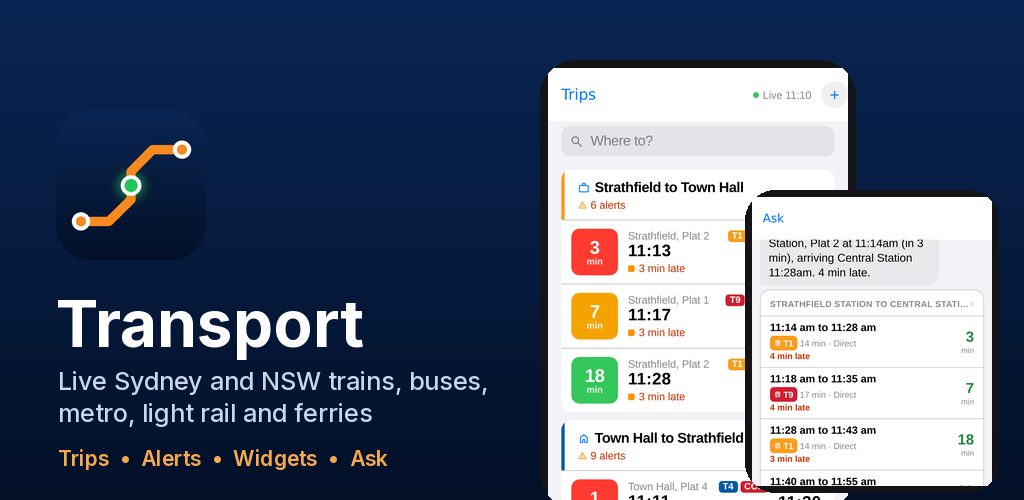
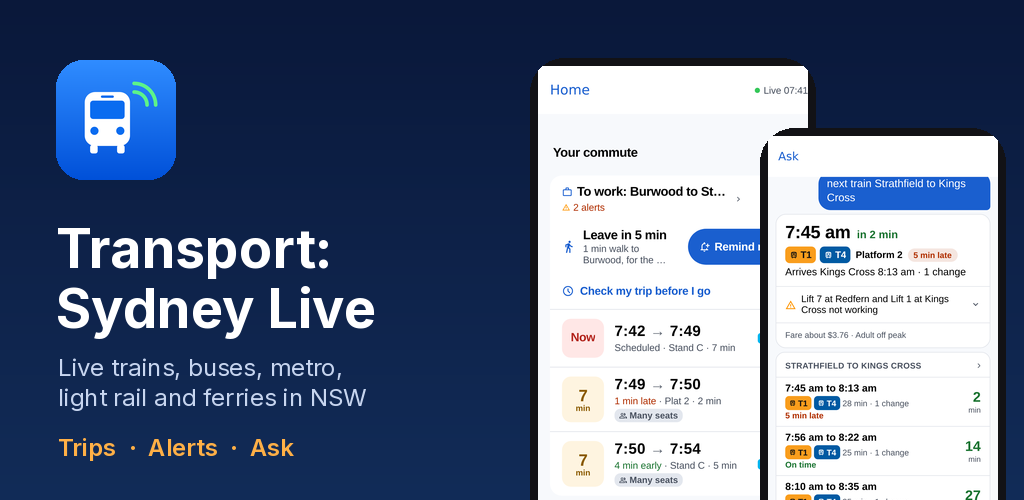
Store readiness: App Store Connect set for version 1.0.0 with build 201 (listing rewritten for the Expo app, review notes, 6.9 and 6.5 inch screenshots uploaded, not submitted). app.json for the next native builds: unused Always location, motion and full accuracy purpose strings removed, a fuller Wh

diff --git a/store/apple/listing.md b/store/apple/listing.md
@@ -1,73 +1,83 @@
 # App Store listing (App Store Connect)
 
+Set in App Store Connect through the API on 25 Oct 2026 (app 6826543653, version 1.0.0 with build 201). This file is the source; if you change a text here, change it there too.
+
 ## App information
 
 * Name (30 max): Transport: Sydney Live
-  * If the name is taken: Transport Live: Sydney NSW
 * Subtitle (30 max): Trains, buses, metro, ferries
 * Bundle ID: com.maisysen.nswtransport
 * SKU: nswtransport-ios-1
 * Primary language: English (Australia)
 * Primary category: Navigation
 * Secondary category: Travel
-* Content rights: Uses third party content (Transport for NSW open data, CC BY 4.0). Answer "Yes, it contains third party content and I have the rights to use it."
-* Age rating: 4+ (see age-rating.md)
+* Content rights: Uses third party content (Transport for NSW Open Data, CC BY 4.0), with the rights to use it.
+* Age rating: 4+ (every item None or No, see age-rating.md)
 * Price: Free. No in-app purchases. No ads.
-* Availability: Australia (all other countries can stay off; the data only covers NSW)
-* Copyright: 2026 (your legal name or business name, the seller name on the developer account)
+* Availability: Australia only
+* Copyright: 2026 Fintex Australia Pty Ltd
+* Export compliance: standard HTTPS only. ios.config.usesNonExemptEncryption is false in app.json, so builds carry ITSAppUsesNonExemptEncryption false and App Store Connect asks nothing.
 
 ## URLs
 
 * Support URL: https://transportsydney.app/support/
-* Marketing URL: https://transportsydney.app/support/
+* Marketing URL: https://transportsydney.app/
 * Privacy policy URL: https://transportsydney.app/privacy/
 
 ## Promotional text (170 max)
 
-Live times that count down every second, widgets for your Home Screen and Lock Screen, and a trip watch that tells you when to leave. Ask it anything in plain words.
+Live times for trains, metro, buses, light rail and ferries. Your trips first, step free options, widgets and a check before you leave. Ask in plain words.
 
 ## Description (4000 max)
 
-Live Sydney and NSW public transport, made for iPhone. Trains, metro, buses, light rail and ferries, with the time each service really leaves.
+Live Sydney and NSW public transport for iPhone. Trains, metro, buses, light rail and ferries, with live times for when each service leaves.
 
 LIVE DEPARTURES
-Every board refreshes itself and the minutes count down on their own. Each service is marked Live or Scheduled, with its platform or stand, how late it is and how full it is when the data says so.
+Boards refresh on their own and the minutes count down. Each service shows Live or Scheduled, its platform or stand, how late it is, and how full it is when the data says so.
 
-TRIPS FIRST
-Add home and add work once. In the morning Transport shows Home to Work first, in the evening the reverse. Each trip shows its next three services with leave and arrive times, changes, and earlier and later services.
+YOUR TRIPS FIRST
+Add home and work once. In the morning Home to Work comes first, in the evening the reverse. Each trip shows its next services with leave and arrive times, changes, an Opal fare estimate, and earlier and later services.
 
-SEE WHERE IT IS
-Tap a service to follow it on the map, with every stop, the next stop and how many stops away it is.
+STEP FREE AND LIFTS
+Plan step free trips and see lift outages on your way before you leave.
 
-WATCH A TRIP
-Swipe on any service or tap Watch trip. Transport tells you when to leave, when it runs late, when the platform changes, and when a late leg means you will miss your connection, with the next way to get there.
+CHECK MY TRIP BEFORE I GO
+Set your usual leave time and days. Before your trip you get one alert, only if something is wrong: a delay, a cancellation, trackwork, a platform change or a lift out of service.
 
-WIDGETS AND LOCK SCREEN
-Small, medium and large Home Screen widgets, a stop board widget, Lock Screen widgets and StandBy. Pick any saved trip or stop for each widget. Follow a service in the Dynamic Island and on the Lock Screen with a Live Activity.
+FOLLOW YOUR TRIP
+Tap Start trip to follow it on a live map with the next stop, stops left and your arrival time, also on the Lock Screen and in the Dynamic Island. Get an alert before your stop and at each change. Share trip sends a link others can open; it stops working when the trip ends.
+
+WATCH A SERVICE
+Swipe left on a departure to watch it. Transport alerts you when it is time to leave, if it runs late or if the platform changes.
+
+WIDGETS
+Home Screen and Lock Screen widgets for a stop or trip you choose.
 
 ASK
 Type a question like "next train Burwood to Central", "is the T1 late" or "last train home" and get a short answer with live times you can tap.
 
-SIRI
-Say "Next train home in Transport" or "Ask Transport" and hear the answer without opening the app.
+MORE
+Live free spaces at Park and Ride car parks and Opal machines near you.
 
 NO ACCOUNT
-No sign up, no ads, no tracking. Saved trips belong to a random ID made on your phone.
+No sign up, no ads, no tracking. Saved trips belong to a random ID made on your phone, and Delete all data in More removes them.
 
-Contains transport information from Transport for NSW Open Data, licensed under CC BY 4.0. Transport is an independent app. It is not made, endorsed or supported by Transport for NSW.
+Contains transport information from Transport for NSW Open Data, licensed under CC BY 4.0. Map data from OpenStreetMap contributors. Transport: Sydney Live is an independent app by Fintex Australia Pty Ltd. It is not made or endorsed by Transport for NSW.
 
 ## Keywords (100 max, commas, no spaces)
 
 train,bus,ferry,metro,light rail,timetable,departures,trip planner,nsw,commute,widget,platform,delay
 
-## What's New (version 1.0)
+## What's New
 
-First release.
+Not shown for the first version.
 
 ## Screenshots
 
-* iPhone 6.9 inch (1320 x 2868): screenshots/apple-6.9/
-* iPhone 6.5 inch (1242 x 2688): screenshots/apple-6.5/
-* iPad: not needed. The app is iPhone only (TARGETED_DEVICE_FAMILY 1).
+Made from the Expo app's web export with live data, light mode (store/screenshots/README.md says how):
 
-Upload order: 01 Trips, 02 trip, 03 board, 04 live map, 05 Ask, 06 nearby.
+* iPhone 6.9 inch (1320 x 2868): screenshots/apple-6.9/, uploaded
+* iPhone 6.5 inch (1284 x 2778): screenshots/apple-6.5/, uploaded
+* iPad: not needed (supportsTablet false)
+
+Order: 01 Home with the commute card, 02 Central departures, 03 a trip, 04 Ask, 05 Check my trip before I go.

diff --git a/docs/STORE_PRIVACY.md b/docs/STORE_PRIVACY.md
@@ -1,0 +1,76 @@
+# Store privacy answers (App Store App Privacy and Play Data safety)
+
+Written 25 Oct 2026 from the code on main (app/ Expo app for iPhone and Android, backend/ server at api.transportsydney.app and the first address). Re-check whenever the app or server starts keeping something new.
+
+## What the code does
+
+Kept only on the phone (never sent): home and work stations, starred and recent stops, the fare type, Ask chat history, settings.
+
+Sent to the server and kept, keyed by a random install ID and a random profile ID that the app makes on first launch (not the advertising ID, not the vendor ID, no name, email or phone number):
+
+| Data | Server table | How long | Why |
+| --- | --- | --- | --- |
+| Saved trips (name, stops, legs) | saved, saved_legs | Until the user deletes them | Trips on Home and in widgets |
+| Commutes and dismissed suggestions | commutes, dismissed | Until deleted | Commute card |
+| Trip searches (from, to, day, time of day) | searches | 90 days | Commute suggestions |
+| Watched services and trips | watches, watch_sent | 30 days after they end | Leave now, late and platform alerts |
+| Alerts sent to the phone | notes | 3 days | Alert history in the app |
+| Check my trip before I go settings | morning_checks, morning_sent | Until deleted | The morning check |
+| Last way home reminder | last_home | 12 hours after the service | The reminder push |
+| Car parks and stations chosen for alerts | park_watches, lift_alerts | Until deleted | Nearly full and lift alerts |
+| Push token (iPhone, Expo push) | expo_tokens | Until the app unregisters or Apple says it is invalid | Sending alerts |
+| Shared trip, with the latest position only if the user taps Include my location | shares | Deleted when the trip ends or sharing stops, otherwise 30 min after arrival, never longer than 6 hours | The Share trip link |
+
+Sent for one request and not kept: the position for nearby stops, Opal machines, Park and Ride distances and trip from where you are; Ask questions.
+
+Kept for 5 minutes only: request counters per IP address for rate limiting (ip_rate), deleted by the minute cron.
+
+Not in the app: accounts or login, name, email, phone number, contacts, photos, microphone, camera, health, payments, ads, analytics or crash SDKs, advertising ID, tracking across apps or sites. No ad or analytics library is in app/package.json.
+
+Delete all my data (More) asks the server to delete everything above for this install (POST /api/history/delete with scope all) and resets the phone. By email: privacy@transportsydney.app (forwards to contact@fintex.au). Web: https://transportsydney.app/support/
+
+Service providers that see a request: Apple (APNs, MapKit maps on iPhone), Expo (push relay and over the air updates; sees the push token, the alert text and the IP address), OpenFreeMap (map tiles on Android; sees the IP address), Cloudflare (hosting). Transport for NSW receives only the server's own data requests, with no user data.
+
+## Apple App Privacy (App Store Connect > App > App Privacy)
+
+The App Store Connect API has no endpoint for App Privacy, so this is clicked by hand (about 5 minutes):
+
+1. App Privacy > Get Started. "Do you or your third party partners collect data from this app?" Yes.
+2. Tick these data types and nothing else:
+   * Location > Precise Location
+   * Identifiers > Device ID
+   * Search History > Search History
+   * User Content > Other User Content
+3. For each of the four: Used for App Functionality only. Linked to the user's identity: No (there are no accounts; the IDs are random and made on the phone). Used for tracking: No.
+4. Publish.
+
+Why each: Precise Location only when the user chooses Include my location on Share trip (kept while the share is live, so it counts as collected). Device ID is the random install and profile IDs plus the push token. Search History is the trip searches kept 90 days. Other User Content is saved trips, commutes, watches and checks.
+
+Not collected under Apple's definition: the position sent for nearby stops and trip planning (used to answer the request and not kept), Ask questions, Usage Data, Diagnostics, Contact Info.
+
+Tracking: No. ATT is not needed (no IDFA, no tracking SDK). NSPrivacyTracking is false.
+
+The privacy manifest in app/app.json now lists the same four types (not linked, no tracking, App Functionality). Build 201 shipped with an empty list; the next iPhone build carries the new one.
+
+## Google Play Data safety (Play Console > App content > Data safety)
+
+* Does your app collect or share any of the required user data types? Yes.
+* Is all of the user data collected by your app encrypted in transit? Yes.
+* Do you provide a way for users to request that their data is deleted? Yes (Delete all my data in More; privacy@transportsydney.app; https://transportsydney.app/support/).
+* Account creation: the app does not have accounts.
+* Data shared with third parties: None. Share trip is a user initiated transfer. Expo, Google and Cloudflare act as service providers.
+
+| Data type | Collected | Processed ephemerally | Required or optional | Purpose |
+| --- | --- | --- | --- | --- |
+| Location: Approximate location | Yes | Yes | Optional | App functionality |
+| Location: Precise location | Yes | No (only with Include my location on Share trip, at most 6 hours) | Optional | App functionality |
+| App activity: In-app search history | Yes | No (90 days) | Required | App functionality |
+| App activity: Other user-generated content | Yes | No | Optional | App functionality |
+| App activity: Other actions | Yes (watched services, checks, chosen car parks and stations) | No | Optional | App functionality |
+| Device or other IDs | Yes (random install and profile IDs; push token once Android push ships) | No | Required | App functionality |
+
+Not collected: personal info, financial info, health and fitness, messages, photos and videos, audio, files and docs, calendar, contacts, web browsing, app info and performance, advertising ID.
+
+Security: encrypted in transit Yes; deletion request Yes; Families policy No; independent security review No.
+
+The older answer files store/apple/app-privacy.md and store/google/data-safety.md point here.

diff --git a/docs/STORE_READINESS.md b/docs/STORE_READINESS.md
@@ -1,0 +1,59 @@
+# Store readiness: App Store and Google Play
+
+State on 25 Oct 2026, 8 AM Sydney. Legend: DONE, BIDUR (needs Bidur's own login, identity or decision), BUILD (needs a new native build; an over the air update cannot do it).
+
+Listing texts: store/apple/listing.md, store/google/listing.md. Privacy answers: docs/STORE_PRIVACY.md. Screenshots: store/screenshots/.
+
+## App Store (app 6826543653, com.maisysen.nswtransport, team Bidur Khatri, individual)
+
+| Item | State | Note |
+| --- | --- | --- |
+| Version record 1.0.0 | DONE | Was 1.0; set to 1.0.0 to match the build |
+| Build attached | DONE | Build 201 (Expo, 1.0.0). It replaced build 107, an old Swift build |
+| Name, subtitle | DONE | Transport: Sydney Live; Trains, buses, metro, ferries |
+| Description, keywords, promotional text | DONE | Rewritten for the Expo app: no Siri claim (the Expo build has no Siri shortcuts) |
+| Support, marketing, privacy policy URLs | DONE | transportsydney.app /support/, /, /privacy/ |
+| Copyright | DONE | 2026 Fintex Australia Pty Ltd |
+| Category | DONE | Navigation, secondary Travel |
+| Age rating | DONE | Every item None or No, 4+ |
+| Content rights | DONE | Uses third party content (TfNSW Open Data, CC BY 4.0) |
+| Price and availability | DONE | Free, Australia only |
+| Export compliance | DONE | usesNonExemptEncryption false in app.json; build 201 reports false, so nothing to answer |
+| App Review contact and notes | DONE | Bidur Khatri, contact@fintex.au, [redacted-phone] (his number on file; change it in App Review Information if another number should get Apple's calls). Notes rewritten for the Expo build |
+| Screenshots 6.9 inch and 6.5 inch | DONE | 5 each, uploaded |
+| App Privacy | BIDUR | No API for it. 5 minutes of clicks, steps in docs/STORE_PRIVACY.md |
+| Test build 201 on a real iPhone | BIDUR | TestFlight: Home, Plan, Ask, Start trip (Live Activity), a widget, a watched service alert |
+| App Group group.com.maisysen.nswtransport | BUILD | Registered and ticked on both App IDs on 25 Oct (commit 9f739d0): eas.json production now builds with IOS_APP_GROUP=1 and buildNumber 202, so widgets see saved trips and starred stops from build 202 |
+| Unused location and motion purpose strings | BUILD | Build 201 carries Expo's default "Allow Transport to access your location" (Always), "...detect your current motion activity" and a full accuracy string. The app never asks for these, but vague strings can draw a guideline 5.1.1 question. app.json now removes them and gives the When In Use string a full reason. Next iPhone build |
+| Privacy manifest data types | BUILD | Build 201 lists none; app.json now lists Device ID, Search History, Other User Content, Precise Location to match App Privacy. Next iPhone build |
+| Submit for Review | BIDUR | Not submitted. Recommended order: App Privacy, then iPhone build 202 from a main that has commit "Store readiness" (purpose strings, manifest, App Group), Tab attaches 202 in place of 201, then Submit |
+
+## Google Play (com.maisysen.nswtransport)
+
+Android Publisher API, 25 Oct 2026 8 AM, edits.insert as tab-publisher@fintex-play.iam.gserviceaccount.com: HTTP 404 "Package not found: com.maisysen.nswtransport." The app does not exist in Play Console yet, or the service account has no access to it.
+
+| Item | State | Note |
+| --- | --- | --- |
+| Signed App Bundle | DONE | versionCode 5, signed with the upload key, kept on the build box (docs/RELEASES.md) |
+| Listing text | DONE | store/google/listing.md (title, short and full description, category Maps and Navigation, contact support@transportsydney.app, privacy URL) |
+| Phone screenshots | DONE | 5 at 1080 x 2160, Android look |
+| Feature graphic 1024 x 500, icon 512 | DONE | store/screenshots/play/ |
+| Data safety answers | DONE (text) | docs/STORE_PRIVACY.md; entered in Console once the app exists |
+| Content rating answers | DONE (text) | store/google/content-rating.md |
+| Create the app in Play Console | BIDUR | All apps > Create app: Transport: Sydney Live, English (Australia), App, Free, accept the declarations |
+| Give the service account access | BIDUR | Users and permissions > Invite new users > tab-publisher@fintex-play.iam.gserviceaccount.com, app Transport: Sydney Live, with Release and Store presence permissions. After that Tab fills the listing, graphics, tracks and uploads by API |
+| First upload | BIDUR | Upload the versionCode 5 AAB once in Console (Testing > Internal testing), which also turns on Play App Signing. Tab sends the file |
+| Closed test, 12 testers for 14 days | BIDUR | Only if the developer account is a personal account made after Nov 2023. An organisation account (Fintex) does not need it |
+| App content forms | BIDUR (Tab can fill once access is given) | Privacy policy URL, ads No, app access (no login), target audience 18+, government app No, news No, data safety, content rating (IARC questionnaire) |
+| Play App Signing SHA256 in assetlinks.json | BIDUR then Tab | Read from Console after the first upload; Tab adds it to site/.well-known/assetlinks.json |
+| Push alerts with the app closed | BUILD | Needs Firebase (NEEDS_BIDUR.md) and versionCode 6 |
+| Exact alarms, App Links intent filter | BUILD | versionCode 6 |
+
+## Compliance checked in code (25 Oct 2026)
+
+* No em or en dashes in app/src, app.json, the widget target, site/, store/ or docs/.
+* Permissions: iPhone asks only for location when in use and notifications; Android declares coarse and fine location, notifications and vibrate, and blocks background location, foreground service, microphone, storage and overlay.
+* No login, so account deletion is not required; More > Delete all my data deletes everything the server keeps for the install (scope all) and resets the phone.
+* No ad, analytics, crash or attribution SDK in app/package.json. No tracking, NSPrivacyTracking false, so App Tracking Transparency is not needed.
+* TfNSW attribution: More > About says "Data from Transport for NSW (CC BY 4.0) and OpenStreetMap contributors. Not made or endorsed by Transport for NSW."
+* Every screen works without an account.

diff --git a/store/apple/review-notes.md b/store/apple/review-notes.md
@@ -1,23 +1,20 @@
-# Notes for App Review (App Store Connect, App Review Information)
+# App Review notes (App Store Connect > version > App Review Information)
 
-Sign in required: No. There are no accounts. Leave the demo account fields empty.
+Set through the API on 25 Oct 2026 for build 201 (Expo). Contact: Bidur Khatri, contact@fintex.au, [redacted-phone]. Sign in required: No.
 
-Contact: (your name, phone and email for App Review)
-
-Notes (paste as written):
-
-Transport shows live Sydney and New South Wales public transport times from Transport for NSW open data (CC BY 4.0). No login is needed and every screen works from any location.
+Transport: Sydney Live shows live Sydney and New South Wales public transport times from Transport for NSW open data (CC BY 4.0). There are no accounts and no sign in, so no demo account is needed. Every screen works from any location.
 
 How to test:
-1. Home tab: tap Add home, search Strathfield and pick Strathfield Station. Tap Add work, search Town Hall and pick Town Hall Station. Home now shows the next services with live countdowns. Tap the trip to see earlier and later services.
-2. Plan tab: type Central and open Central Station for a live departure board. Tap any departure to follow the vehicle on the map. Swipe left on a departure and tap Watch to get alerts for it (allow notifications when asked). Tap Plan a trip, pick Burwood and Strathfield, open a trip and tap Start trip for the live trip with a Lock Screen countdown. It ends when you arrive.
-3. More tab, Ask: tap a suggested question, or type "next train Burwood to Central" or "is the T1 late".
-4. Siri: after opening the app once, say "Next train home in Transport" or "Ask Transport". Home must be set (step 1) for the first phrase.
-5. Widgets: long press the Home Screen, tap Edit, Add Widget, Transport. Lock Screen widgets and StandBy are also available.
-6. Live Activity: on a stop board, touch and hold a departure and tap Follow on Lock Screen.
+1. First launch: type Strathfield as the home station and pick it, then Town Hall as the work station. Home shows the commute card with the next services and live countdowns. Tap a service to see its stops.
+2. Plan tab: search Central and open Central Station for a live departure board. Swipe left on a departure to watch it (allow notifications when asked); Watching in More lists it. Plan a trip between two stations; Step free plans a trip that avoids stairs and shows lift outages.
+3. Ask tab: type "next train Burwood to Central" or "is the T1 late". Ask answers from live timetable data with fixed rules. It does not connect people and does not use generative AI.
+4. Start trip: open a trip and tap Start trip. The live screen shows a map, the next stop, stops left and the arrival time, and the same trip appears as a Live Activity on the Lock Screen. Share trip makes a link that people you send it to can open to follow the trip. The link stops working when the trip ends.
+5. Check my trip before I go: More > Check my trip before I go. Set a leave time and days; Check now shows what the alert would say.
+6. Widgets: long press the Home Screen, tap Edit, Add Widget, Transport, then Edit Widget to pick a stop or trip.
+7. More > Delete all my data removes everything the server keeps for this install and resets the app.
 
-Location is optional and asked only when you tap Show stops near me. If the review device is outside NSW, nearby stops will be far away; search works anywhere.
+Location is optional and is asked for only when you tap Show stops near me, Use my location in Ask, or the location button on a live trip. For nearby stops and trip planning the position is sent for that one request and is not stored. If you choose Include my location when sharing a trip, the server keeps the latest position only while the shared trip is live (at most 6 hours). Location is never used in the background.
 
 Live times depend on the Transport for NSW feeds. Late at night (about 1am to 4am Sydney time) many lines have no services, so boards can be short.
 
-Transport is an independent app. It is not made or endorsed by Transport for NSW.
+Published by Fintex Australia Pty Ltd. Transport: Sydney Live is an independent app, not made or endorsed by Transport for NSW.

diff --git a/store/apple/app-privacy.md b/store/apple/app-privacy.md
@@ -1,25 +1,3 @@
-# App Privacy answers (App Store Connect, App Privacy)
+# App Privacy answers (App Store Connect)
 
-Privacy policy URL: https://transportsydney.app/privacy/
-
-Do you or your third party partners collect data from this app? Yes.
-
-Tracking: No. The app does not track users across apps or websites owned by other companies, has no ads, no analytics SDK and no third party SDKs that collect data. NSPrivacyTracking is false in the privacy manifest.
-
-Data types collected (all: used for App Functionality only, NOT linked to the user's identity, NOT used for tracking):
-
-| Category | Data type | Why |
-| --- | --- | --- |
-| Identifiers | Device ID | A random install ID made by the app (not the advertising ID, not the vendor ID). The server uses it to keep the trips you watch and the alerts that belong to this phone. |
-| Search History | Search History | Trips you plan or watch are kept with the random profile ID so Transport can suggest a commute (same trip on two days at a similar time). Deleted after 90 days. |
-| User Content | Other User Content | Names and stops of the trips you save and your commutes, so they appear on Trips and in widgets. |
-
-Not collected:
-
-* Location: when you tap Show stops near me, plan from where you are, or ask Siri for the next train home, the phone sends its position for that one request. The server uses it to answer and does not store it. Under Apple's definition (not retained beyond servicing the request in real time) this is not collected. Home and work places, starred stops and recent stops stay on the phone.
-* Contact info, health, financial info, contacts, browsing history, purchases, usage data, diagnostics, sensitive info: none.
-* Ask questions are sent to the server to answer and are not stored.
-
-Notifications on iPhone are local notifications made by the app. No push token is sent.
-
-This matches the privacy manifest in the app (ios-native/Support/Privacy/App/PrivacyInfo.xcprivacy): DeviceID, SearchHistory, OtherUserContent, all not linked, no tracking, purpose App Functionality; required reason API UserDefaults with reasons CA92.1 and 1C8F.1.
+Moved to [docs/STORE_PRIVACY.md](../../docs/STORE_PRIVACY.md), rewritten on 25 Oct 2026 for the Expo app (build 201 and later). The answers that were here described the old Swift build and no longer match: the Expo app sends a push token and can share a live position on Share trip.

diff --git a/store/screenshots/README.md b/store/screenshots/README.md
@@ -1,8 +1,21 @@
-# Screenshots
+# Store screenshots
 
-* apple-6.9: 1320 x 2868, iPhone 16 Pro Max simulator, light and dark (upload one set; light is the default order 01 to 06)
-* apple-6.5: 1242 x 2688, iPhone 11 Pro Max simulator, light
-* play: 1080 x 1920 phone screenshots rendered from the app's React Native code in a phone sized browser, the 1024 x 500 feature graphic and the 512 x 512 icon
+Made on 25 Oct 2026 from the Expo app (main at 7bc7ac3) with live data, light mode, by test/e2e/store-shots.mjs on the web export. The web export draws the same screens as the phones; there is no status bar and the bottom tab bar is not drawn on the web.
 
-All iPhone captures come from CI run 16 (UI test StoreShots) with live Transport for NSW data on 24 October 2026, Sydney time about 11:30am.
-The simulator status bar shows UTC; set a status bar time override in the workflow if a matching clock is wanted.
+| Folder | Size | Look | Store |
+| --- | --- | --- | --- |
+| apple-6.9 | 1320 x 2868 | iPhone | App Store, iPhone 6.9 inch (uploaded) |
+| apple-6.5 | 1284 x 2778 | iPhone | App Store, iPhone 6.5 inch (uploaded) |
+| play | 1080 x 2160 | Android | Google Play phone screenshots, plus feature-graphic.png (1024 x 500) and icon-512.png |
+
+Screens: 01 Home with the commute card (home Burwood, work Strathfield), 02 Central departures, 03 Central to Parramatta trip, 04 Ask "next train Strathfield to Kings Cross", 05 Check my trip before I go. On the iPhone shots of screen 05 the web only note about notifications is hidden, because an iPhone with notifications on does not show it; the Android shot keeps its note, which is true for versionCode 5.
+
+To make them again:
+
+    cd app
+    npx expo export --platform web --output-dir /tmp/web-ios
+    EXPO_PUBLIC_LOOK=android npx expo export --platform web --output-dir /tmp/web-android
+    (serve each as a single page app, unknown paths return index.html)
+    STEPS='["home","board","trip","ask","morning"]' node test/e2e/store-shots.mjs PORT OUTDIR 440 956 3 light ios       # 6.9 inch
+    STEPS='["home","board","trip","ask","morning"]' node test/e2e/store-shots.mjs PORT OUTDIR 428 926 3 light ios       # 6.5 inch
+    STEPS='["home","board","trip","ask","morning"]' node test/e2e/store-shots.mjs PORT OUTDIR 360 720 3 light android   # Play

diff --git a/CHANGELOG.md b/CHANGELOG.md
@@ -4,6 +4,11 @@ What changed in Transport, newest first. Times are Sydney time. Build numbers, u
 
 ## 25 Oct 2026
 
+### Store readiness (no app update, 25 Oct, 8 AM)
+* App Store Connect: version 1.0.0 with build 201 attached, listing rewritten for the Expo app, review notes, 6.9 and 6.5 inch screenshots uploaded. Not submitted.
+* app.json, for the next native builds: the unused Always location, motion and full accuracy purpose strings are removed, the When In Use string gives the full reason, and the privacy manifest lists the data the server keeps.
+* New: docs/STORE_READINESS.md (App Store and Play checklists), docs/STORE_PRIVACY.md (App Privacy and Data safety answers from the code), fresh screenshots and Play feature graphic from the Expo app.
+
 ### Ask answers easy to scan (over the air update for iPhone and Android, 25 Oct, 7:37 AM)
 * A trip answer in Ask is now a short card instead of one long paragraph: the departure time large with minutes to go, the line chips and platform, then "Arrives Kings Cross 7:55 am · 1 change".
 * Status as a chip in the same words and colours as the rows below: On time in green, N min late in orange, Cancelled in red.

diff --git a/store/google/data-safety.md b/store/google/data-safety.md
@@ -1,5 +1,8 @@
 # Play Data safety form answers
 
+The current answers are in [docs/STORE_PRIVACY.md](../../docs/STORE_PRIVACY.md) (25 Oct 2026). The text below is the earlier version, kept for reference.
+
+
 Matches Android versionCode 5 with the over the air updates up to 24 Oct 2026 (live trip and Share trip, Park and Ride and lift outage alerts). Re-check this form whenever the app starts collecting something new.
 
 Does your app collect or share any of the required user data types? Yes.

diff --git a/SUBMIT.md b/SUBMIT.md
@@ -1,5 +1,7 @@
 # SUBMIT: what is left once the keys arrive
 
+Current state per store (25 Oct 2026): [docs/STORE_READINESS.md](docs/STORE_READINESS.md).
+
 Everything that does not need a developer account login is done: code, privacy manifests, signed Android App Bundle,
 store copy, screenshots and the support and privacy pages. What remains is below, in order. Each step is one action.
 
